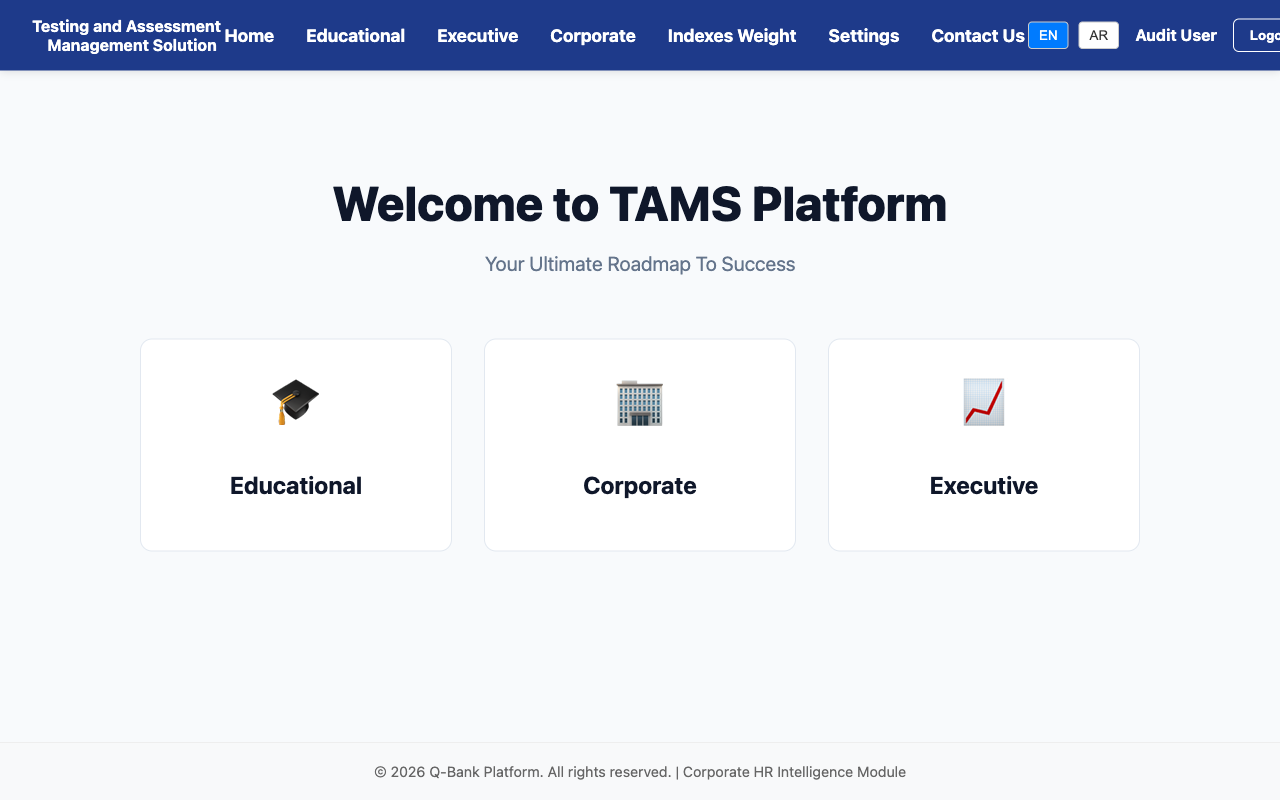
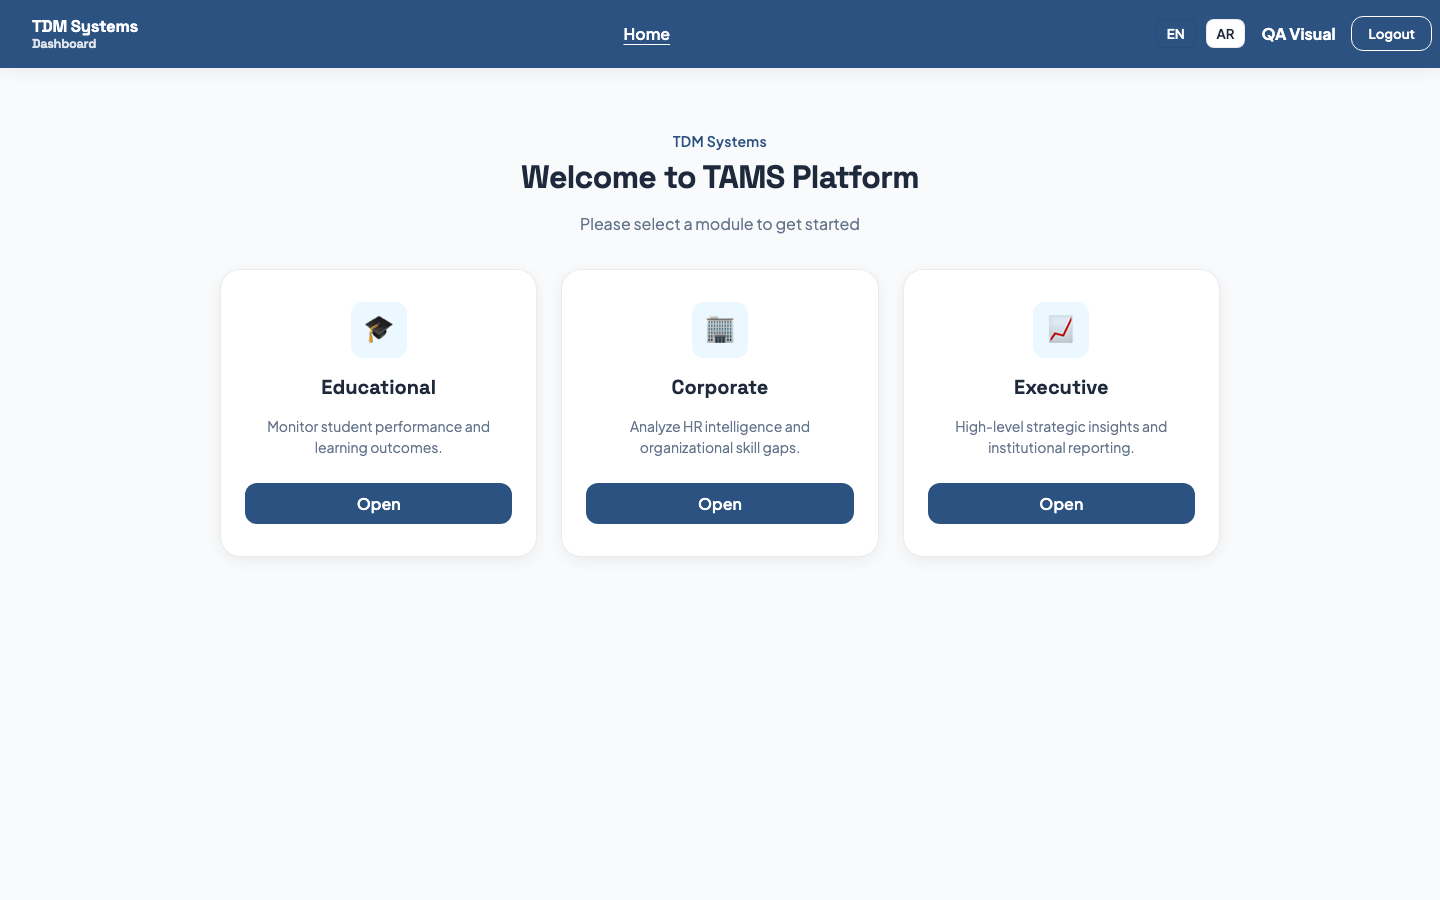
[QA-B] Recapture Phase B dashboard screenshots and mark gate PASS.

diff --git a/orchestration/TICKETS.md b/orchestration/TICKETS.md
@@ -185,7 +185,7 @@ Update **Status** here when dispatching, and mirror via `gh issue` (comment / cl
 **Acceptance:**
 - [x] Primary surfaces/header use `#2c5282` family
 - [x] Fonts match contract on login/home
-- [ ] QA refresh: `dashboard-login-desktop.png`, `dashboard-home-desktop.png`
+- [x] QA refresh: `dashboard-login-desktop.png`, `dashboard-home-desktop.png`
 
 ---
 
@@ -204,7 +204,7 @@ Update **Status** here when dispatching, and mirror via `gh issue` (comment / cl
 
 **Acceptance:**
 - [x] One recognizable gateway layout
-- [ ] QA refresh: `dashboard-landing-desktop.png`, `dashboard-home-desktop.png`
+- [x] QA refresh: `dashboard-landing-desktop.png`, `dashboard-home-desktop.png`
 
 ---
 
@@ -247,7 +247,7 @@ Update **Status** here when dispatching, and mirror via `gh issue` (comment / cl
 ### B5 — RTL layout + login language switcher
 | Field | Value |
 |-------|--------|
-| **Status** | in_progress |
+| **Status** | done |
 | **GitHub** | [#14](https://github.com/mohammadyounes-prog/my-projects-the-3-projects-/issues/14) |
 | **Agent** | Dashboard |
 | **parallel** | ok with B6 |
@@ -260,7 +260,7 @@ Update **Status** here when dispatching, and mirror via `gh issue` (comment / cl
 **Acceptance:**
 - [x] Login can switch EN/AR
 - [x] Header does not break badly in `dir=rtl`
-- [ ] QA refresh: `dashboard-login-desktop.png`, `dashboard-home-mobile.png`
+- [x] QA refresh: `dashboard-login-desktop.png`, `dashboard-home-mobile.png`
 
 ---
 
@@ -284,7 +284,7 @@ Update **Status** here when dispatching, and mirror via `gh issue` (comment / cl
 ### QA-B — Phase B visual gate
 | Field | Value |
 |-------|--------|
-| **Status** | todo |
+| **Status** | done |
 | **GitHub** | [#16](https://github.com/mohammadyounes-prog/my-projects-the-3-projects-/issues/16) |
 | **Agent** | Visual QA |
 | **Depends on** | B1–B6 |
@@ -293,6 +293,8 @@ Update **Status** here when dispatching, and mirror via `gh issue` (comment / cl
 `dashboard-login-desktop.png`, `dashboard-landing-desktop.png`, `dashboard-home-desktop.png`, `dashboard-home-mobile.png`
 
 **Pass if:** Phase B exit criteria + suite fonts/primary recognizable vs website/QI.
+
+**Visual QA (2026-07-25):** PASS — production build served `:6019`; home/landing captured with dummy `localStorage.token` + `user_name`. Suite fonts (Space Grotesk / Plus Jakarta Sans) + `--suite-primary #2c5282`; header/buttons `rgb(44,82,130)`; no `:3700` in build (`REACT_APP_HUB_URL` → `localhost:6015`); login EN/AR switcher sets `dir=rtl` + Arabic copy. Landing/`/home` share one gateway. Residual (non-blocking): mobile header truncates Logout chrome at ~390px.
 
 ---
 
